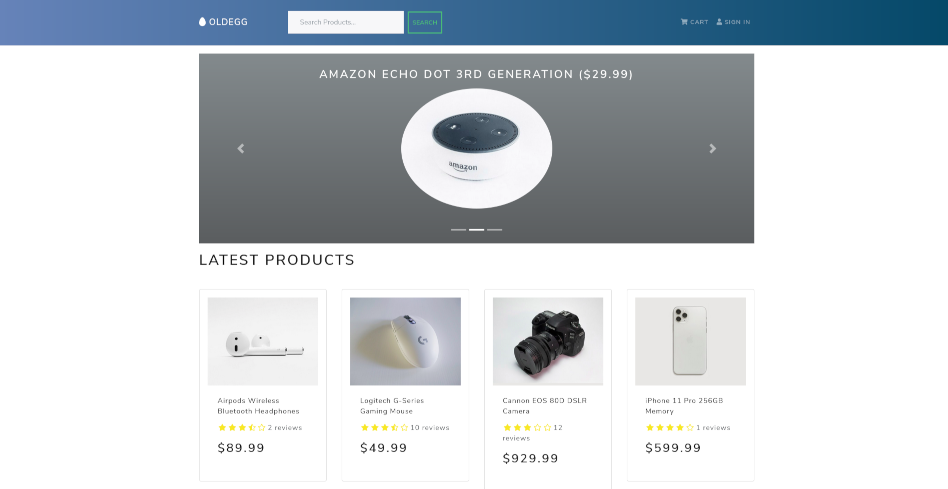
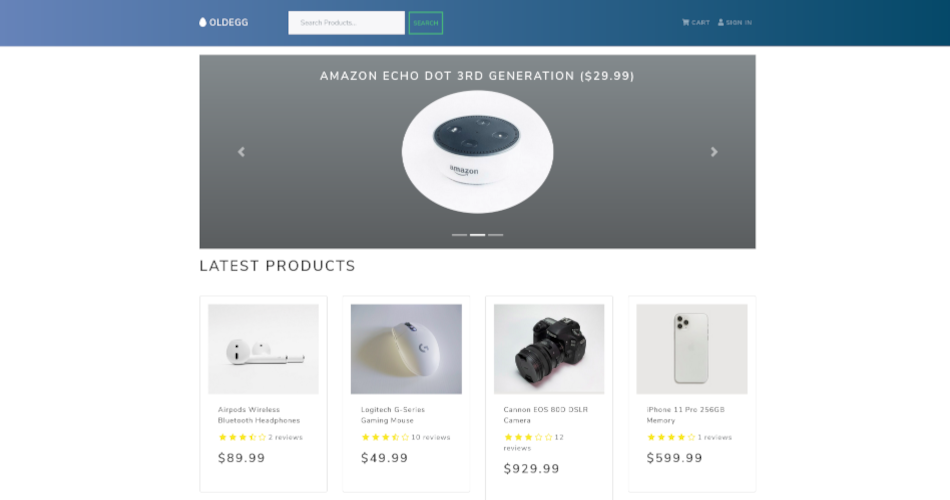
fix image sizes and carousel jumping issues

diff --git a/frontend/src/components/Project.js b/frontend/src/components/Project.js
@@ -1,8 +1,15 @@
 import { useState, useEffect } from 'react'
 //Styling
 import { motion } from 'framer-motion'
-import { pageAnimation, fade, backgroundFade } from '../animation'
-import { Container, Wrapper, ImageWrapper, Cover, Background } from '../styles'
+import { pageAnimation, fade, carouselFade, backgroundFade } from '../animation'
+import {
+  Container,
+  Wrapper,
+  ImageWrapper,
+  Slide,
+  Cover,
+  Background,
+} from '../styles'
 //Components
 import ProjectLinks from '../components/ProjectLinks'
 
@@ -31,6 +38,17 @@ const Project = ({
       }
     }, 5000)
   }, [counter, images.length])
+
+  // const handleClick = e => {
+  //   e.preventDefault()
+  //   if (e.target.value === 'next') {
+  //     if (counter >= images.length - 1) {
+  //       setCounter(0)
+  //     } else {
+  //       setCounter(counter + 1)
+  //     }
+  //   }
+  // }
 
   return (
     <motion.div variants={pageAnimation} initial='hidden' animate='show'>
@@ -62,7 +80,32 @@ const Project = ({
           </Wrapper>
           <ImageWrapper>
             <motion.figure className='flex-item'>
-              <motion.img src={images[counter]} alt={`${name} Pages`} />
+              {counter === 0 && (
+                <Slide
+                  variants={carouselFade}
+                  initial='hidden'
+                  src={images[counter]}
+                  alt={`${name} Pages`}
+                />
+              )}
+              {counter === 1 && (
+                <Slide
+                  variants={carouselFade}
+                  initial='hidden'
+                  animate='show'
+                  src={images[counter]}
+                  alt={`${name} Pages`}
+                />
+              )}
+              {counter === 2 && (
+                <Slide
+                  variants={carouselFade}
+                  initial='hidden'
+                  animate='show'
+                  src={images[counter]}
+                  alt={`${name} Pages`}
+                />
+              )}
               <motion.a href={website} target='_blank'>
                 <motion.figcaption>
                   Visit Live Site <i className='fas fa-arrow-right' />
@@ -70,6 +113,9 @@ const Project = ({
               </motion.a>
             </motion.figure>
           </ImageWrapper>
+          {/* <motion.button onClick={handleClick} value='next'>
+            Next
+          </motion.button> */}
         </Container>
       </Cover>
     </motion.div>

diff --git a/frontend/src/styles.js b/frontend/src/styles.js
@@ -4,13 +4,19 @@ import { motion } from 'framer-motion'
 export const Cover = styled(motion.div)`
   position: absolute;
   width: 100%;
-  padding-bottom: 2rem;
+  min-height: 1300px;
   background-color: rgba(0, 0, 0, 0.85);
-  @media (min-width: 700px) and (min-height: 1000px) and (max-width: 1000px) and (max-height: 1300px) {
-    height: 100%;
+  @media (min-height: 1300px) {
+    min-height: 2000px;
   }
-  @media (min-height: 1340px) {
-    height: 110%;
+  @media (max-width: 600px) {
+    min-height: 1000px;
+  }
+  @media (max-width: 1000px) and (max-height: 600px) {
+    min-height: 1000px;
+  }
+  @media (max-width: 1000px) and (max-height: 1400px) {
+    min-height: 100%;
   }
 `
 
@@ -38,11 +44,10 @@ export const Container = styled(motion.div)`
 `
 
 export const ImageWrapper = styled(motion.div)`
-  display: flex;
-  flex: row-wrap;
+  display: grid;
   justify-content: center;
   align-items: center;
-  margin-top: 3rem;
+  margin: 3rem 0;
   .arrow-left,
   .arrow-right {
     font-size: 3rem;
@@ -54,14 +59,12 @@ export const ImageWrapper = styled(motion.div)`
   }
   figure {
     position: relative;
-    width: 50%;
-    @media (max-width: 1200px) {
-      width: 90%;
-    }
+    width: 90%;
+    margin: 0 auto;
   }
   img {
     max-height: 500px;
-    width: 100%;
+    min-width: 100%;
     cursor: pointer;
     @media (max-width: 1200px) {
       height: 90%;
@@ -93,6 +96,22 @@ export const ImageWrapper = styled(motion.div)`
       opacity: 1;
     }
   }
+`
+
+export const SlideCover = styled(motion.div)`
+  width: 100%;
+  height: 100%;
+  background: transparent;
+`
+
+export const Slide = styled(motion.img)`
+  flex: 1;
+  display: flex;
+  justify-content: center;
+  width: 100%;
+  height: 100%;
+  align-items: center;
+  grid-area: 1 / 1 / 2 / 2;
 `
 
 export const Wrapper = styled(motion.div)`

diff --git a/frontend/src/animation.js b/frontend/src/animation.js
@@ -32,6 +32,14 @@ export const fade = {
   },
 }
 
+export const carouselFade = {
+  hidden: { opacity: 0 },
+  show: {
+    opacity: 1,
+    transition: { duration: 1, ease: 'easeIn' },
+  },
+}
+
 export const backgroundFade = {
   hidden: { opacity: 0 },
   show: {
